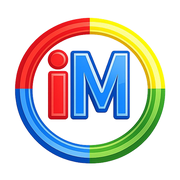
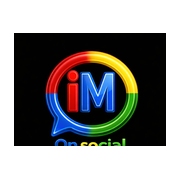
auto-commit for b5ca095e-7123-446e-a29f-80c227842052

diff --git a/frontend/public/logo-preview.html b/frontend/public/logo-preview.html
@@ -3,212 +3,176 @@
 <head>
 <meta charset="UTF-8">
 <meta name="viewport" content="width=device-width, initial-scale=1.0">
-<title>Logo Preview — i'M On Social</title>
+<title>Logo Preview — Applied</title>
 <style>
   * { box-sizing: border-box; margin: 0; padding: 0; }
   body { background: #0A0A0F; color: #fff; font-family: -apple-system, BlinkMacSystemFont, 'Segoe UI', sans-serif; padding: 24px; }
   h1 { font-size: 24px; font-weight: 800; margin-bottom: 6px; }
-  .subtitle { font-size: 14px; color: #8E8E93; margin-bottom: 40px; }
-  .notice { background: rgba(201,169,98,.12); border: 1px solid rgba(201,169,98,.3); border-radius: 10px; padding: 14px 18px; font-size: 14px; color: #C9A962; margin-bottom: 40px; line-height: 1.5; }
-  .section { margin-bottom: 48px; }
-  .section-title { font-size: 18px; font-weight: 700; color: #fff; margin-bottom: 4px; border-left: 3px solid #C9A962; padding-left: 12px; }
-  .section-desc { font-size: 13px; color: #8E8E93; margin-bottom: 20px; padding-left: 15px; }
-  .row { display: flex; flex-wrap: wrap; gap: 32px; align-items: flex-end; }
+  .subtitle { font-size: 14px; color: #8E8E93; margin-bottom: 32px; }
+  .applied-banner { background: rgba(52,199,89,.12); border: 1px solid rgba(52,199,89,.3); border-radius: 10px; padding: 14px 18px; font-size: 14px; color: #34C759; margin-bottom: 40px; }
+  .section { margin-bottom: 44px; }
+  .section-title { font-size: 17px; font-weight: 700; color: #fff; margin-bottom: 3px; border-left: 3px solid #C9A962; padding-left: 12px; }
+  .section-desc { font-size: 12px; color: #8E8E93; margin-bottom: 16px; padding-left: 15px; }
+  .row { display: flex; flex-wrap: wrap; gap: 28px; align-items: flex-end; }
   .item { text-align: center; }
-  .label { font-size: 11px; color: #8E8E93; margin-top: 8px; font-weight: 600; text-transform: uppercase; letter-spacing: 0.5px; }
-  .size-note { font-size: 10px; color: #555; margin-top: 3px; }
-  .icon-tile { display: inline-flex; align-items: center; justify-content: center; background: #ffffff; overflow: hidden; flex-shrink: 0; }
+  .label { font-size: 11px; color: #8E8E93; margin-top: 6px; font-weight: 600; text-transform: uppercase; letter-spacing: 0.5px; }
+  .size-note { font-size: 10px; color: #555; margin-top: 2px; }
+  .icon-tile { display: inline-flex; align-items: center; justify-content: center; background: #fff; overflow: hidden; }
   .icon-tile img { width: 100%; height: 100%; object-fit: cover; }
   .browser-tab { background: #2C2C2E; border-radius: 8px 8px 0 0; padding: 8px 14px; display: inline-flex; align-items: center; gap: 6px; min-width: 160px; }
-  .browser-tab-favicon { width: 16px; height: 16px; border-radius: 3px; }
-  .browser-tab-title { font-size: 12px; color: #EBEBF5; white-space: nowrap; overflow: hidden; text-overflow: ellipsis; max-width: 120px; }
-  .phone-screen { background: linear-gradient(135deg, #1a1a2e 0%, #16213e 50%, #0f3460 100%); border-radius: 20px; padding: 20px; width: 200px; border: 2px solid #333; }
-  .phone-grid { display: grid; grid-template-columns: repeat(4, 1fr); gap: 12px; }
+  .phone-screen { background: linear-gradient(135deg, #1a1a2e, #16213e, #0f3460); border-radius: 20px; padding: 18px; width: 196px; border: 2px solid #333; }
+  .phone-grid { display: grid; grid-template-columns: repeat(4, 1fr); gap: 10px; }
   .phone-icon { text-align: center; }
   .phone-icon-label { font-size: 9px; color: rgba(255,255,255,.7); margin-top: 3px; }
-  .phone-icon.highlighted .icon-tile { box-shadow: 0 0 0 3px #C9A962, 0 4px 20px rgba(201,169,98,.4); }
-  .navbar { background: #1C1C1E; border-radius: 12px; padding: 10px 20px; display: flex; align-items: center; gap: 10px; width: 360px; border: 1px solid #2C2C2E; }
-  .navbar-brand { font-size: 16px; font-weight: 800; color: #fff; }
-  .navbar-brand span { color: #C9A962; }
-  .divider { height: 1px; background: rgba(255,255,255,.08); margin: 48px 0; }
-  .NEW_LOGO { --src: url('https://customer-assets.emergentagent.com/job_3307ef81-704c-4c07-a7b8-577a74f4ab42/artifacts/tub3f2qx_8C77C2E4-359D-4B63-B980-8F1A937BDEBD.png'); }
+  .phone-icon.hl .icon-tile { box-shadow: 0 0 0 3px #C9A962, 0 4px 20px rgba(201,169,98,.4); }
+  .divider { height: 1px; background: rgba(255,255,255,.08); margin: 40px 0; }
+  .pill { display: inline-block; background: rgba(52,199,89,.15); border: 1px solid rgba(52,199,89,.3); border-radius: 20px; padding: 3px 10px; font-size: 11px; color: #34C759; font-weight: 700; margin-left: 8px; vertical-align: middle; }
+  .pill-orange { background: rgba(255,149,0,.15); border-color: rgba(255,149,0,.3); color: #FF9500; }
 </style>
 </head>
 <body>
 
-<h1>Logo Preview — i'M On Social</h1>
-<p class="subtitle">Review all contexts before any files are changed</p>
+<h1>Logo — Applied ✓</h1>
+<p class="subtitle">All icon files have been updated. Here's how they look everywhere.</p>
 
-<div class="notice">
-  &#9888; <strong>Preview Only — No files have been modified.</strong> This shows exactly how the new logo looks in every context. Reply <strong>"apply the logo"</strong> to proceed with the changes.<br><br>
-  The rainbow speech bubble "iM" logo sits on the same white tile + rounded corners used today. Only the artwork inside changes. All filenames, sizes, and structure stay identical.
+<div class="applied-banner">
+  ✅ <strong>Files updated:</strong> logo192.png, logo512.png, favicon.ico, favicon.png, android-chrome-192/512.png, apple-touch-icon.png<br>
+  <small style="opacity:.7">Originals backed up to /public/_logo_backup/ — restore any time</small>
 </div>
 
+<!-- PWA / FAVICON — speech bubble only -->
 <div class="section">
-  <div class="section-title">Favicon — Browser Tab</div>
-  <div class="section-desc">16×16 and 32×32 — appears in every browser tab and bookmark</div>
+  <div class="section-title">PWA &amp; Favicon <span class="pill">Speech bubble only — no "On Social" text</span></div>
+  <div class="section-desc">iOS/Android adds "On Social" label automatically — just like your screenshot shows</div>
   <div class="row">
+
+    <div class="item">
+      <div class="phone-screen">
+        <div class="phone-grid">
+          <div class="phone-icon"><div class="icon-tile" style="width:42px;height:42px;border-radius:22%;background:#1C1C1E;"></div></div>
+          <div class="phone-icon"><div class="icon-tile" style="width:42px;height:42px;border-radius:22%;background:#1C1C1E;"></div></div>
+          <div class="phone-icon"><div class="icon-tile" style="width:42px;height:42px;border-radius:22%;background:#1C1C1E;"></div></div>
+          <div class="phone-icon"><div class="icon-tile" style="width:42px;height:42px;border-radius:22%;background:#1C1C1E;"></div></div>
+          <div class="phone-icon"><div class="icon-tile" style="width:42px;height:42px;border-radius:22%;background:#1C1C1E;"></div></div>
+          <div class="phone-icon hl">
+            <div class="icon-tile" style="width:42px;height:42px;border-radius:22%;">
+              <img src="/logo192.png?v=2" onerror="this.src='/new-logo-192.png'" alt="app icon">
+            </div>
+            <div class="phone-icon-label" style="color:#C9A962;font-weight:700">On Social</div>
+          </div>
+          <div class="phone-icon"><div class="icon-tile" style="width:42px;height:42px;border-radius:22%;background:#1C1C1E;"></div></div>
+          <div class="phone-icon"><div class="icon-tile" style="width:42px;height:42px;border-radius:22%;background:#1C1C1E;"></div></div>
+        </div>
+      </div>
+      <div class="label">Home Screen (iOS adds "On Social")</div>
+    </div>
+
+    <div class="item">
+      <div class="icon-tile" style="width:180px;height:180px;border-radius:40px;box-shadow:0 8px 40px rgba(0,0,0,.6)">
+        <img src="/logo512.png?v=2" onerror="this.src='/logo192.png'" alt="512">
+      </div>
+      <div class="label">512×512</div>
+      <div class="size-note">logo512.png</div>
+    </div>
+
     <div class="item">
       <div class="browser-tab">
-        <img class="browser-tab-favicon" src="https://customer-assets.emergentagent.com/job_3307ef81-704c-4c07-a7b8-577a74f4ab42/artifacts/tub3f2qx_8C77C2E4-359D-4B63-B980-8F1A937BDEBD.png" alt="fav" style="border-radius:3px;background:#fff;padding:1px;">
-        <span class="browser-tab-title">i'M On Social</span>
+        <img src="/favicon.png?v=2" alt="fav" style="width:16px;height:16px;border-radius:3px;">
+        <span style="font-size:12px;color:#EBEBF5">i'M On Social</span>
       </div>
-      <div style="background:#1C1C1E;border-radius:0 0 8px 8px;padding:6px 10px;width:200px">
-        <div style="background:#2C2C2E;border-radius:6px;padding:4px 10px;font-size:11px;color:#636366">app.imonsocial.com</div>
+      <div style="background:#1C1C1E;border-radius:0 0 8px 8px;padding:5px 10px;width:180px">
+        <div style="background:#2C2C2E;border-radius:5px;padding:4px 10px;font-size:11px;color:#636366">app.imonsocial.com</div>
       </div>
-      <div class="label">Browser Tab</div>
+      <div class="label">Browser Tab Favicon</div>
+    </div>
+
+    <div class="item">
+      <div class="icon-tile" style="width:96px;height:96px;border-radius:21px">
+        <img src="/logo192.png?v=2" alt="96">
+      </div>
+      <div class="label">96px</div>
     </div>
     <div class="item">
-      <div class="icon-tile" style="width:32px;height:32px;border-radius:6px">
-        <img src="https://customer-assets.emergentagent.com/job_3307ef81-704c-4c07-a7b8-577a74f4ab42/artifacts/tub3f2qx_8C77C2E4-359D-4B63-B980-8F1A937BDEBD.png">
+      <div class="icon-tile" style="width:48px;height:48px;border-radius:11px">
+        <img src="/logo192.png?v=2" alt="48">
+      </div>
+      <div class="label">48px</div>
+    </div>
+    <div class="item">
+      <div class="icon-tile" style="width:32px;height:32px;border-radius:7px">
+        <img src="/favicon.png?v=2" alt="32">
       </div>
       <div class="label">32px</div>
     </div>
     <div class="item">
       <div class="icon-tile" style="width:16px;height:16px;border-radius:3px">
-        <img src="https://customer-assets.emergentagent.com/job_3307ef81-704c-4c07-a7b8-577a74f4ab42/artifacts/tub3f2qx_8C77C2E4-359D-4B63-B980-8F1A937BDEBD.png">
+        <img src="/favicon-16x16.png?v=2" alt="16">
       </div>
       <div class="label">16px</div>
     </div>
+
   </div>
 </div>
 
 <div class="divider"></div>
 
+<!-- MARKETING — full logo with "On Social" -->
 <div class="section">
-  <div class="section-title">PWA / Home Screen Icon</div>
-  <div class="section-desc">How the app icon looks on iOS and Android home screens</div>
+  <div class="section-title">Marketing Site <span class="pill pill-orange">Full logo with "On Social" text</span></div>
+  <div class="section-desc">imonsocial.com nav header and marketing pages</div>
   <div class="row">
-    <div class="item">
-      <div class="phone-screen">
-        <div class="phone-grid">
-          <div class="phone-icon"><div class="icon-tile" style="width:44px;height:44px;border-radius:22%;background:#1C1C1E;"></div></div>
-          <div class="phone-icon"><div class="icon-tile" style="width:44px;height:44px;border-radius:22%;background:#1C1C1E;"></div></div>
-          <div class="phone-icon"><div class="icon-tile" style="width:44px;height:44px;border-radius:22%;background:#1C1C1E;"></div></div>
-          <div class="phone-icon"><div class="icon-tile" style="width:44px;height:44px;border-radius:22%;background:#1C1C1E;"></div></div>
-          <div class="phone-icon"><div class="icon-tile" style="width:44px;height:44px;border-radius:22%;background:#1C1C1E;"></div></div>
-          <div class="phone-icon highlighted">
-            <div class="icon-tile" style="width:44px;height:44px;border-radius:22%;">
-              <img src="https://customer-assets.emergentagent.com/job_3307ef81-704c-4c07-a7b8-577a74f4ab42/artifacts/tub3f2qx_8C77C2E4-359D-4B63-B980-8F1A937BDEBD.png">
-            </div>
-            <div class="phone-icon-label" style="color:#C9A962;font-weight:600">i'M On</div>
-          </div>
-          <div class="phone-icon"><div class="icon-tile" style="width:44px;height:44px;border-radius:22%;background:#1C1C1E;"></div></div>
-          <div class="phone-icon"><div class="icon-tile" style="width:44px;height:44px;border-radius:22%;background:#1C1C1E;"></div></div>
-        </div>
-      </div>
-      <div class="label">Phone Home Screen</div>
-    </div>
-    <div class="item">
-      <div class="icon-tile" style="width:180px;height:180px;border-radius:40px;box-shadow:0 8px 40px rgba(0,0,0,.6)">
-        <img src="https://customer-assets.emergentagent.com/job_3307ef81-704c-4c07-a7b8-577a74f4ab42/artifacts/tub3f2qx_8C77C2E4-359D-4B63-B980-8F1A937BDEBD.png">
-      </div>
-      <div class="label">192×192</div>
-      <div class="size-note">logo192.png</div>
-    </div>
-    <div class="item">
-      <div class="icon-tile" style="width:120px;height:120px;border-radius:27px;box-shadow:0 8px 40px rgba(0,0,0,.6)">
-        <img src="https://customer-assets.emergentagent.com/job_3307ef81-704c-4c07-a7b8-577a74f4ab42/artifacts/tub3f2qx_8C77C2E4-359D-4B63-B980-8F1A937BDEBD.png">
-      </div>
-      <div class="label">Apple Touch Icon</div>
-      <div class="size-note">apple-touch-icon.png (180px)</div>
-    </div>
-  </div>
-</div>
 
-<div class="divider"></div>
-
-<div class="section">
-  <div class="section-title">In-App — Nav Bar &amp; Login Screen</div>
-  <div class="section-desc">How it appears inside the app at runtime</div>
-  <div style="display:flex;flex-direction:column;gap:20px">
     <div class="item" style="text-align:left">
-      <div class="navbar">
-        <div class="icon-tile" style="width:32px;height:32px;border-radius:8px">
-          <img src="https://customer-assets.emergentagent.com/job_3307ef81-704c-4c07-a7b8-577a74f4ab42/artifacts/tub3f2qx_8C77C2E4-359D-4B63-B980-8F1A937BDEBD.png">
-        </div>
-        <div class="navbar-brand">i'M <span>On Social</span></div>
-        <div style="flex:1"></div>
-        <div style="width:28px;height:28px;border-radius:50%;background:#333;"></div>
-      </div>
-      <div class="label">Nav Bar (32px)</div>
-    </div>
-    <div class="item">
-      <div style="background:#0A0A0F;border:1px solid #222;border-radius:20px;padding:30px;width:280px;text-align:center">
-        <div class="icon-tile" style="width:80px;height:80px;border-radius:20px;margin:0 auto 16px;box-shadow:0 4px 20px rgba(0,0,0,.5)">
-          <img src="https://customer-assets.emergentagent.com/job_3307ef81-704c-4c07-a7b8-577a74f4ab42/artifacts/tub3f2qx_8C77C2E4-359D-4B63-B980-8F1A937BDEBD.png">
-        </div>
-        <div style="font-size:20px;font-weight:800;color:#fff;margin-bottom:4px">i'M On Social</div>
-        <div style="font-size:12px;color:#636366;margin-bottom:20px">Sign in to your account</div>
-        <div style="background:#1C1C1E;border-radius:10px;padding:12px;margin-bottom:10px;font-size:13px;color:#636366;text-align:left">Email address</div>
-        <div style="background:#1C1C1E;border-radius:10px;padding:12px;font-size:13px;color:#636366;text-align:left">Password</div>
-      </div>
-      <div class="label">Login Screen</div>
-    </div>
-  </div>
-</div>
-
-<div class="divider"></div>
-
-<div class="section">
-  <div class="section-title">Marketing Site — imonsocial.com</div>
-  <div class="section-desc">Header nav and social share card</div>
-  <div style="display:flex;flex-direction:column;gap:20px">
-    <div>
-      <div style="background:#fff;border-radius:10px;overflow:hidden;max-width:600px">
-        <div style="padding:14px 24px;display:flex;align-items:center;gap:10px;border-bottom:1px solid #f0f0f0">
-          <div class="icon-tile" style="width:36px;height:36px;border-radius:9px">
-            <img src="https://customer-assets.emergentagent.com/job_3307ef81-704c-4c07-a7b8-577a74f4ab42/artifacts/tub3f2qx_8C77C2E4-359D-4B63-B980-8F1A937BDEBD.png">
-          </div>
+      <div style="background:#fff;border-radius:10px;overflow:hidden;max-width:580px">
+        <div style="padding:13px 22px;display:flex;align-items:center;gap:10px;border-bottom:1px solid #f0f0f0">
+          <img src="/logo-marketing-192.png?v=2" style="width:36px;height:36px;border-radius:9px;background:#fff" alt="nav">
           <span style="font-size:16px;font-weight:800;color:#111">i'M On Social</span>
           <div style="flex:1"></div>
-          <span style="font-size:13px;color:#444;margin-right:16px">Products</span>
-          <span style="font-size:13px;color:#444;margin-right:16px">Solutions</span>
+          <span style="font-size:13px;color:#444;margin-right:14px">Products</span>
+          <span style="font-size:13px;color:#444;margin-right:14px">Solutions</span>
           <span style="font-size:13px;color:#0070f3;font-weight:600">Get Started</span>
         </div>
-        <div style="background:linear-gradient(135deg,#0A0A0F,#1a1a2e);padding:30px 24px;text-align:center">
-          <div style="font-size:24px;font-weight:900;color:#fff;margin-bottom:8px">Relationship CRM built for closers</div>
-          <div style="font-size:13px;color:rgba(255,255,255,.55)">Snap. Tag. Send. Done.</div>
+        <div style="background:linear-gradient(135deg,#0A0A0F,#1a1a2e);padding:28px 22px;text-align:center">
+          <div style="font-size:22px;font-weight:900;color:#fff;margin-bottom:6px">Relationship CRM built for closers</div>
+          <div style="font-size:13px;color:rgba(255,255,255,.5)">Snap. Tag. Send. Done.</div>
         </div>
       </div>
-      <div class="label">Marketing Nav Header</div>
+      <div class="label">Marketing Nav (full logo)</div>
     </div>
+
+    <div class="item">
+      <div class="icon-tile" style="width:140px;height:140px;border-radius:30px;box-shadow:0 8px 40px rgba(0,0,0,.5)">
+        <img src="/logo-marketing-512.png?v=2" alt="marketing">
+      </div>
+      <div class="label">Marketing 512px (with text)</div>
+    </div>
+
   </div>
 </div>
 
 <div class="divider"></div>
 
-<div class="section">
-  <div class="section-title">All Sizes</div>
-  <div class="section-desc">Every icon size shown together on white tile</div>
-  <div class="row" style="align-items:flex-end">
-    <div class="item"><div class="icon-tile" style="width:180px;height:180px;border-radius:40px"><img src="https://customer-assets.emergentagent.com/job_3307ef81-704c-4c07-a7b8-577a74f4ab42/artifacts/tub3f2qx_8C77C2E4-359D-4B63-B980-8F1A937BDEBD.png"></div><div class="label">512px</div></div>
-    <div class="item"><div class="icon-tile" style="width:96px;height:96px;border-radius:21px"><img src="https://customer-assets.emergentagent.com/job_3307ef81-704c-4c07-a7b8-577a74f4ab42/artifacts/tub3f2qx_8C77C2E4-359D-4B63-B980-8F1A937BDEBD.png"></div><div class="label">96px</div></div>
-    <div class="item"><div class="icon-tile" style="width:72px;height:72px;border-radius:16px"><img src="https://customer-assets.emergentagent.com/job_3307ef81-704c-4c07-a7b8-577a74f4ab42/artifacts/tub3f2qx_8C77C2E4-359D-4B63-B980-8F1A937BDEBD.png"></div><div class="label">72px</div></div>
-    <div class="item"><div class="icon-tile" style="width:48px;height:48px;border-radius:11px"><img src="https://customer-assets.emergentagent.com/job_3307ef81-704c-4c07-a7b8-577a74f4ab42/artifacts/tub3f2qx_8C77C2E4-359D-4B63-B980-8F1A937BDEBD.png"></div><div class="label">48px</div></div>
-    <div class="item"><div class="icon-tile" style="width:36px;height:36px;border-radius:8px"><img src="https://customer-assets.emergentagent.com/job_3307ef81-704c-4c07-a7b8-577a74f4ab42/artifacts/tub3f2qx_8C77C2E4-359D-4B63-B980-8F1A937BDEBD.png"></div><div class="label">36px</div></div>
-    <div class="item"><div class="icon-tile" style="width:32px;height:32px;border-radius:7px"><img src="https://customer-assets.emergentagent.com/job_3307ef81-704c-4c07-a7b8-577a74f4ab42/artifacts/tub3f2qx_8C77C2E4-359D-4B63-B980-8F1A937BDEBD.png"></div><div class="label">32px</div></div>
-    <div class="item"><div class="icon-tile" style="width:20px;height:20px;border-radius:4px"><img src="https://customer-assets.emergentagent.com/job_3307ef81-704c-4c07-a7b8-577a74f4ab42/artifacts/tub3f2qx_8C77C2E4-359D-4B63-B980-8F1A937BDEBD.png"></div><div class="label">20px</div></div>
-    <div class="item"><div class="icon-tile" style="width:16px;height:16px;border-radius:3px"><img src="https://customer-assets.emergentagent.com/job_3307ef81-704c-4c07-a7b8-577a74f4ab42/artifacts/tub3f2qx_8C77C2E4-359D-4B63-B980-8F1A937BDEBD.png"></div><div class="label">16px</div></div>
-  </div>
-</div>
-
-<div class="divider"></div>
-
-<div style="background:rgba(255,255,255,.03);border:1px solid rgba(255,255,255,.08);border-radius:16px;padding:24px">
-  <div style="font-size:16px;font-weight:700;color:#fff;margin-bottom:16px">What changes vs what stays the same</div>
-  <div style="display:grid;grid-template-columns:1fr 1fr;gap:20px;font-size:13px">
+<div style="background:rgba(255,255,255,.03);border:1px solid rgba(255,255,255,.08);border-radius:14px;padding:20px;font-size:13px">
+  <div style="font-weight:700;color:#fff;margin-bottom:12px">Files updated</div>
+  <div style="display:grid;grid-template-columns:1fr 1fr;gap:16px;color:#8E8E93;line-height:1.9">
     <div>
-      <div style="color:#34C759;font-weight:700;margin-bottom:8px">STAYS THE SAME</div>
-      <div style="color:#8E8E93;line-height:1.8">White tile background<br>Rounded corners on every icon<br>All filenames (logo192.png etc.)<br>manifest.json structure<br>App routes and functionality<br>Marketing site structure</div>
+      <div style="color:#34C759;font-weight:600;margin-bottom:4px">Speech bubble only (PWA/favicon)</div>
+      logo192.png &amp; logo512.png<br>
+      android-chrome-192×192.png<br>
+      android-chrome-512×512.png<br>
+      apple-touch-icon.png<br>
+      favicon.ico / favicon.png / favicon-16x16.png
     </div>
     <div>
-      <div style="color:#FF9500;font-weight:700;margin-bottom:8px">ARTWORK UPDATES (7 files)</div>
-      <div style="color:#8E8E93;line-height:1.8">logo192.png<br>logo512.png<br>favicon.png / favicon.ico<br>android-chrome-192×192.png<br>android-chrome-512×512.png<br>apple-touch-icon.png<br>favicon-16x16.png</div>
+      <div style="color:#FF9500;font-weight:600;margin-bottom:4px">Full logo with "On Social" (marketing)</div>
+      logo-marketing-512.png<br>
+      logo-marketing-192.png<br>
+      <br>
+      <div style="color:#555;font-size:11px">Use these in /marketing/build/ nav header</div>
     </div>
   </div>
-  <div style="margin-top:20px;padding:14px;background:rgba(201,169,98,.1);border-radius:10px;font-size:13px;color:#C9A962">
-    <strong>Ready to apply?</strong> Reply <strong>"apply the logo"</strong> and all 7 icon files will be regenerated with the new artwork. Current files are backed up automatically.
+  <div style="margin-top:14px;padding:10px 14px;background:rgba(255,149,0,.08);border-radius:8px;color:#8E8E93;font-size:12px">
+    <strong style="color:#FF9500">To roll back:</strong> original files are in <code style="color:#aaa">/public/_logo_backup/</code>
   </div>
 </div>
 
